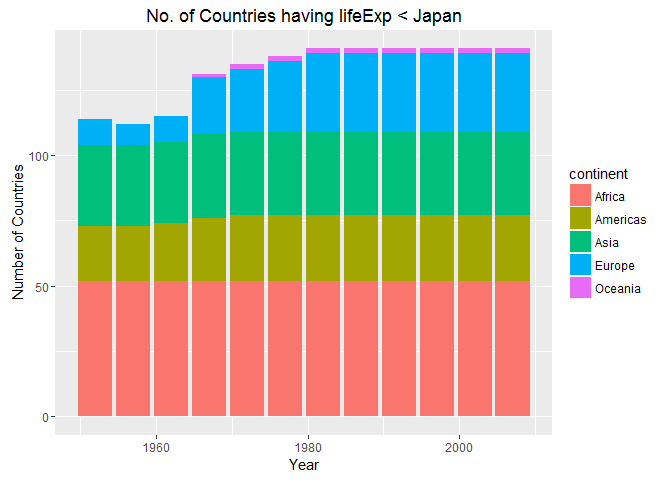
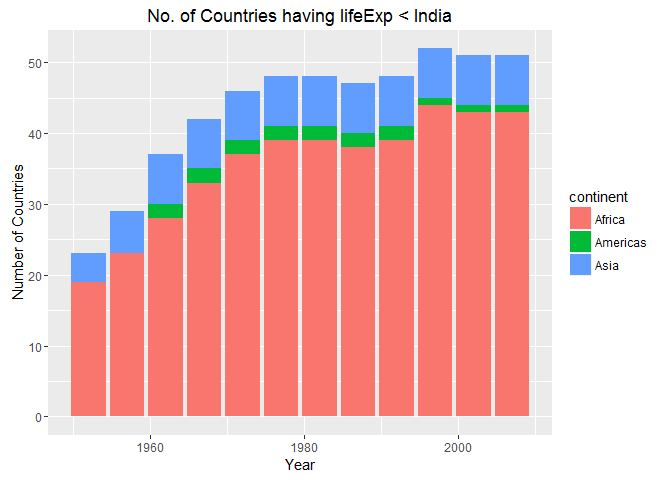
final commit for assignment 3

diff --git a/hw03_gapminder-ggplot2-dplyr/hw03_gapminder-ggplot2-dplyr.md b/hw03_gapminder-ggplot2-dplyr/hw03_gapminder-ggplot2-dplyr.md
@@ -19,13 +19,13 @@ library( gapminder )
 #### Maximum and Minimum of `gdpPercap` for all continents
 
 ``` r
-my_gap <- gapminder
+my_gap <- gapminder #copying the data.frame to an object
 
 min_max_gdp <- my_gap %>% 
   group_by( continent ) %>% 
-  summarize( min_gdp_percap = min( gdpPercap ) , max_gdp_percap = max( gdpPercap ) )
+  summarize( min_gdp_percap = min( gdpPercap ) , max_gdp_percap = max( gdpPercap ) ) 
 
-knitr::kable( min_max_gdp )
+knitr::kable( min_max_gdp ) #displaying data in a nice table
 ```
 
 | continent |  min\_gdp\_percap|  max\_gdp\_percap|
@@ -48,7 +48,7 @@ min_max_gdp %>%
 ``` r
 min_max_gdp %>% 
   ggplot( aes( x = continent , y = max_gdp_percap ) ) +
-  geom_bar( width = 0.10 , stat = "identity") +
+  geom_bar( width = 0.10 , stat = "identity" ) +
   labs( title = "Maximum GDP per capita" , x = "Continent" , y = "GDP per capita" )
 ```
 
@@ -59,8 +59,8 @@ min_max_gdp %>%
 ``` r
 le_wt_mean <- my_gap %>% 
   group_by( continent ) %>% 
-  summarize( mean_wt_le = weighted.mean( lifeExp, pop ) ) %>% 
-  print( n = Inf )
+  summarize( mean_wt_le = weighted.mean( lifeExp, pop ) ) %>% #pop is the weighting factor
+  print( n = Inf ) #prints all the results
 ```
 
     ## # A tibble: 5 × 2
@@ -88,7 +88,7 @@ le_over_time <- my_gap %>%
   select( continent , lifeExp , year ) %>%
   group_by( continent , year ) %>% 
   summarise( avg_life_exp = mean( lifeExp ) ) %>% 
-  print( n = 10 )
+  print( n = 10 ) #prints the first 10 results alone 
 ```
 
     ## Source: local data frame [60 x 3]
@@ -125,15 +125,39 @@ benchmark_country <- my_gap %>%
   filter( country == "India" )
 
 rel_le <- my_gap %>% 
-  mutate( temp = rep( benchmark_country$lifeExp , nlevels( country ) ), 
-          lifeExpRel = lifeExp/temp, 
+  mutate( temp = rep( benchmark_country$lifeExp , nlevels( country ) ), #creating replicates
+          lifeExpRel = lifeExp/temp, #calculating the relative life expectancy
           temp = NULL )
+```
 
+``` r
+rel_le %>% 
+  filter( country == "India" ) %>% #sanity check
+  select( country , year , lifeExp , lifeExpRel )
+```
+
+    ## # A tibble: 12 × 4
+    ##    country  year lifeExp lifeExpRel
+    ##     <fctr> <int>   <dbl>      <dbl>
+    ## 1    India  1952  37.373          1
+    ## 2    India  1957  40.249          1
+    ## 3    India  1962  43.605          1
+    ## 4    India  1967  47.193          1
+    ## 5    India  1972  50.651          1
+    ## 6    India  1977  54.208          1
+    ## 7    India  1982  56.596          1
+    ## 8    India  1987  58.553          1
+    ## 9    India  1992  60.223          1
+    ## 10   India  1997  61.765          1
+    ## 11   India  2002  62.879          1
+    ## 12   India  2007  64.698          1
+
+``` r
 rel_abundance <- rel_le %>%
   group_by( continent , year ) %>% 
-  filter( lifeExpRel < 1 ) %>% 
+  filter( lifeExpRel < 1 ) %>% #filtering out the countries having lesser life expectancy
   summarise( n_countries = n_distinct( country ) ) %>% 
-  print( n = 10 )
+  print( n = 10 ) #prints the first 10 results alone 
 ```
 
     ## Source: local data frame [34 x 3]
@@ -156,11 +180,11 @@ rel_abundance <- rel_le %>%
 ``` r
 rel_abundance %>%
   ggplot( aes( x = year , y = n_countries , fill = continent ) ) + 
-  geom_bar( stat = "identity" , position = "stack") +
+  geom_bar( stat = "identity" , position = "stack" ) +
   labs( title = "No. of Countries having lifeExp < India" , x = "Year" , y = "Number of Countries" )
 ```
 
-![](hw03_gapminder-ggplot2-dplyr_files/figure-markdown_github/unnamed-chunk-9-1.png)
+![](hw03_gapminder-ggplot2-dplyr_files/figure-markdown_github/unnamed-chunk-11-1.png)
 
 I believe that I have **unintentionally** arrived at a highly reproducable workflow for this task ! The benchmark country can be changed easily in the above code. The plot above implies that there are no countries from Oceania and Europe that had a GDP per capita lesser than India any point of time that is under consideration. I am changing the benchmark country below, in an attempt to capture countries from all continents, by using a country that has had significantly high GDP per capita over the years.
 
@@ -200,11 +224,13 @@ rel_abundance <- rel_le %>%
 ``` r
 rel_abundance %>%
   ggplot( aes( x = year , y = n_countries , fill = continent ) ) + 
-  geom_bar( stat = "identity" , position = "stack") +
+  geom_bar( stat = "identity" , position = "stack" ) +
   labs( title = "No. of Countries having lifeExp < Japan" , x = "Year" , y = "Number of Countries" )
 ```
 
-![](hw03_gapminder-ggplot2-dplyr_files/figure-markdown_github/unnamed-chunk-11-1.png)
+![](hw03_gapminder-ggplot2-dplyr_files/figure-markdown_github/unnamed-chunk-13-1.png)
 
 The Process
 -----------
+
+I found this assignment really interesting. I was able to build on the concepts explained in [`dplyr functions for a single dataset`](http://stat545.com/block010_dplyr-end-single-table.html) and relied heavily on [`Jenny's ggplot2 tutorial`](https://github.com/jennybc/ggplot2-tutorial) to arrive at the solutions for the tasks. [`RStudio's ggplot2 cheatsheet`](https://www.rstudio.com/wp-content/uploads/2015/12/ggplot2-cheatsheet-2.0.pdf) was also of great help when I encountered roadblocks.
